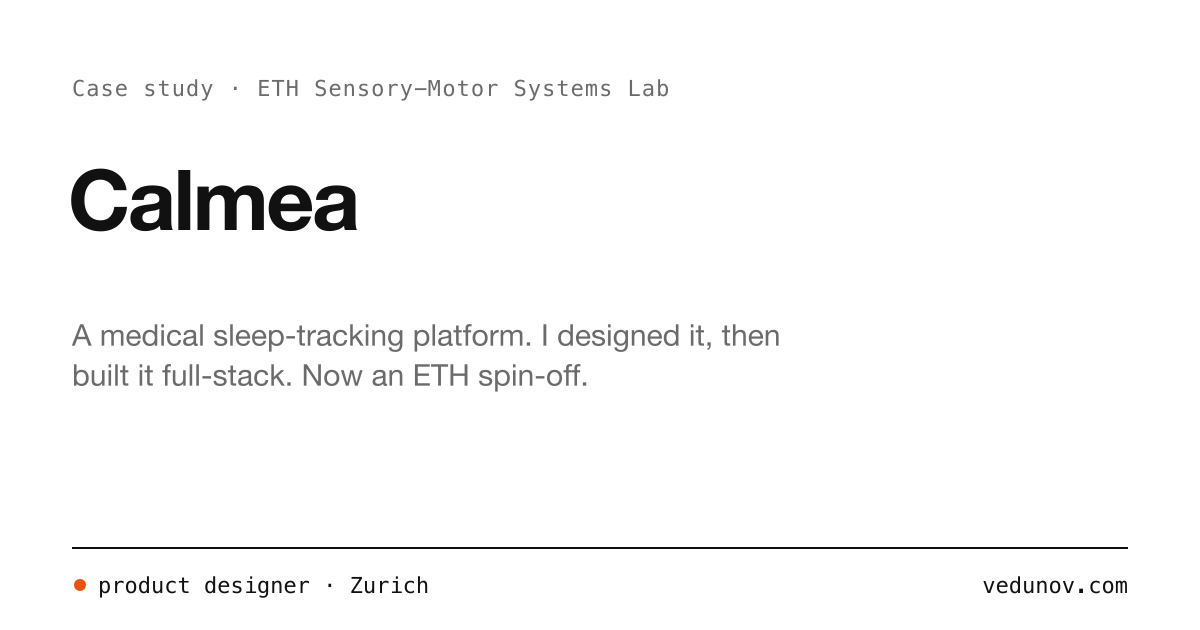
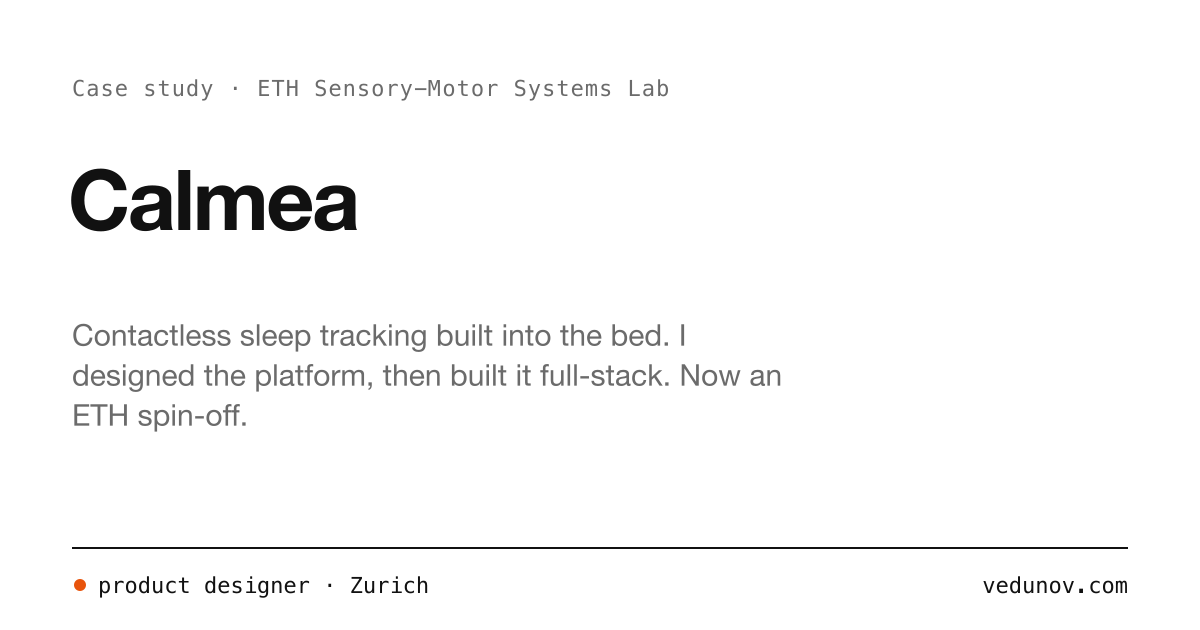
Landing: calmer cards and title, interaction designer; no quotes for launch
- Project cards on the landing are smaller (desktop ~68% wide at 16:10, phones 78% at 3:2),
  card text uses the space the quotes left.
- Hero: "interaction designer · Zurich", new title "I design health and enterprise
  software, from research to code." (de: «Ich gestalte Software für Gesundheit und Firmen,
  von der Forschung bis zum Code.»), "see the work" link removed.
- Kymu: Product Designer instead of Design Lead (case page, TL;DR, About).
- Collaborator quotes removed from all work entries until real ones exist.

Changed region(s): [[0.0617, 0.5127, 0.6475, 0.6937]]

diff --git a/app/components/home/ProjectCards.vue b/app/components/home/ProjectCards.vue
@@ -43,7 +43,7 @@ onMounted(update)
             :src="p.cover!.src"
             :alt="p.cover!.alt ?? ''"
             class="card__media"
-            sizes="sm:76vw md:90vw xl:1240px"
+            sizes="sm:70vw md:68vw xl:930px"
             densities="x1 x2"
             format="webp"
             :quality="p === projects[0] ? 65 : undefined"
@@ -105,7 +105,7 @@ onMounted(update)
 
 .card {
   position: relative;
-  flex: 0 0 86%;
+  flex: 0 0 78%;
   display: flex;
   flex-direction: column;
   scroll-snap-align: start;
@@ -120,14 +120,14 @@ onMounted(update)
 
 .card__link:focus-visible { outline-offset: -4px; border-radius: var(--radius-card); }
 
-.card__media { width: 100%; aspect-ratio: 4 / 3; object-fit: cover; }
+.card__media { width: 100%; aspect-ratio: 3 / 2; object-fit: cover; }
 
 .card__media--contain { object-fit: contain; padding: var(--space-6); background: var(--panel); }
 
 .card__confidential, .card__missing {
   display: grid;
   place-items: center;
-  aspect-ratio: 4 / 3;
+  aspect-ratio: 3 / 2;
   padding: var(--space-6);
   text-align: center;
 }
@@ -168,7 +168,7 @@ onMounted(update)
 
 @media (width >= 64rem) {
   /* Desktop: one big media card; text overlays bottom-left, the quote bottom-right. */
-  .card { flex-basis: calc(100% - 2 * var(--layout-margin) - 7.5rem); aspect-ratio: 3 / 2; display: block; }
+  .card { flex-basis: min(58rem, 68%); aspect-ratio: 16 / 10; display: block; }
 
   .card__link { position: absolute; inset: 0; display: block; }
 
@@ -178,9 +178,9 @@ onMounted(update)
 
   .card__confidential, .card__missing { position: absolute; inset: 0 0 35%; aspect-ratio: auto; }
 
-  .card__body { position: absolute; inset: auto 45% 0 0; z-index: 1; padding: var(--space-8); }
+  .card__body { position: absolute; inset: auto 30% 0 0; z-index: 1; padding: var(--space-8); }
 
-  .card--photo .card__body { padding-top: 30%; background: linear-gradient(to top, var(--scrim) 0%, var(--scrim) 50%, transparent 100%); inset-inline-end: 0; padding-inline-end: 45%; }
+  .card--photo .card__body { padding-top: 30%; background: linear-gradient(to top, var(--scrim) 0%, var(--scrim) 50%, transparent 100%); inset-inline-end: 0; padding-inline-end: 30%; }
 
   .card__quote {
     position: absolute;

diff --git a/app/i18n/ui.ts b/app/i18n/ui.ts
@@ -13,9 +13,8 @@ export const ui = {
     'footer.elsewhere': 'Elsewhere',
     'footer.email': 'Email',
 
-    'hero.role': 'product designer · Zurich',
+    'hero.role': 'interaction designer · Zurich',
     'hero.email': 'email me',
-    'hero.work': 'see the work',
     'cards.title': 'Selected work',
     'cards.prev': 'Previous project',
     'cards.next': 'Next project',
@@ -93,9 +92,8 @@ export const ui = {
     'footer.elsewhere': 'Anderswo',
     'footer.email': 'E-Mail',
 
-    'hero.role': 'Produktdesigner · Zürich',
+    'hero.role': 'Interaction Designer · Zürich',
     'hero.email': 'schreib mir',
-    'hero.work': 'zu den Arbeiten',
     'cards.title': 'Ausgewählte Arbeiten',
     'cards.prev': 'Vorheriges Projekt',
     'cards.next': 'Nächstes Projekt',

diff --git a/app/pages/index.vue b/app/pages/index.vue
@@ -20,7 +20,6 @@ useSeoMeta({ description: () => `${site.value.name}, ${t('site.tagline')}. ${sit
     <h1 id="hero-title" class="t-display hero__title">{{ site.positioning }}<span class="hero__cursor" aria-hidden="true" /></h1>
     <p class="hero__proof t-mono">
       <a href="#contact" class="hero__mail">{{ t('hero.email') }}<span aria-hidden="true">&nbsp;›</span></a>
-      <NuxtLink :to="lp('/work')" class="hero__mail link-quiet">{{ t('hero.work') }}<span aria-hidden="true">&nbsp;›</span></NuxtLink>
     </p>
   </section>
 

diff --git a/content/de/work/1.kymu.md b/content/de/work/1.kymu.md
@@ -2,7 +2,7 @@
 title: Kymu
 outcome: Physiotherapie zu Hause als Spiel für Kinder mit neuromuskulären Erkrankungen. Über CHF 160'000 an Fördergeldern, klinischer Pilot mit dem Luzerner Kantonsspital aufgegleist.
 year: 2025–heute
-role: Design Lead · Wissenschaftlicher Mitarbeiter
+role: Product Designer · Wissenschaftlicher Mitarbeiter
 org: Kymu
 tier: featured
 cover:
@@ -44,15 +44,11 @@ results:
       label: Bachelor Design Award 2025
 reflection: "[TODO: your words, 3–5 sentences. What would you change about how Kymu was designed or run, knowing what you know now?]"
 tags: [Gesundheit, Forschung, Produktdesign]
-quote:
-  text: "[TODO: quote from Elia]"
-  name: Elia Salerno
-  role: "[TODO: Elia's role at Kymu]"
 services: [UX/UI, Forschung, 3D, Marke]
 date: 2025–heute
 tldr:
   problem: Kinder mit neuromuskulären Erkrankungen brauchen jahrelang Physiotherapie zu Hause. Das ist schwer durchzuhalten, und Therapeutinnen und Therapeuten sehen nicht, was zwischen den Terminen passiert.
-  role: Design Lead. Research, UX/UI für die Therapeuten-Plattform, die App und den Fernseher, die Exergames in Blender und die Marke.
+  role: Product Designer. Research, UX/UI für die Therapeuten-Plattform, die App und den Fernseher, die Exergames in Blender und die Marke.
   did: "Heimübungen in bewegungsgesteuerte Spiele verwandelt, die Daten zu Bewegungsumfang und Gleichgewicht an die Therapeutin oder den Therapeuten schicken. Getestet mit Patientinnen und Patienten sowie Physiotherapeutinnen und Physiotherapeuten am Luzerner Kantonsspital."
   outcome: CHF 160k+ an nicht rückzahlbaren Fördergeldern, ein klinischer Pilot mit dem Luzerner Kantonsspital, eine Closed Beta und der SDA Bachelor Design Award 2025.
 keyVisuals:

diff --git a/content/work/1.kymu.md b/content/work/1.kymu.md
@@ -2,7 +2,7 @@
 title: Kymu
 outcome: Home physio as a game for children with neuromuscular conditions. CHF 160k+ raised, clinical pilot set up with Lucerne Cantonal Hospital.
 year: 2025–now
-role: Design Lead · Research Associate
+role: Product Designer · Research Associate
 org: Kymu
 tier: featured
 cover:
@@ -44,15 +44,11 @@ results:
       label: Bachelor Design Award 2025
 reflection: "[TODO: your words, 3–5 sentences. What would you change about how Kymu was designed or run, knowing what you know now?]"
 tags: [health, research, product design]
-quote:
-  text: "[TODO: quote from Elia]"
-  name: Elia Salerno
-  role: "[TODO: Elia's role at Kymu]"
 services: [UX/UI, research, 3D, brand]
 date: 2025–now
 tldr:
   problem: Children with neuromuscular conditions need years of physio at home. It's hard to keep up, and therapists can't see what happens between visits.
-  role: Design lead. Research, UX/UI for the therapist platform, the app and the TV, the exergames in Blender, and the brand.
+  role: Product designer. Research, UX/UI for the therapist platform, the app and the TV, the exergames in Blender, and the brand.
   did: "Turned home exercises into motion-controlled games that send range-of-motion and balance data to the therapist. Tested with patients and physiotherapists at Lucerne Cantonal Hospital."
   outcome: CHF 160k+ non-dilutive funding, a clinical pilot with Lucerne Cantonal Hospital, a closed beta, and the SDA Bachelor Design Award 2025.
 keyVisuals:

diff --git a/docs/PLACEHOLDERS.md b/docs/PLACEHOLDERS.md
@@ -8,7 +8,7 @@ In Markdown bodies, a placeholder is written `:todo[what's missing]`.
 
 ## Home: `content/home.yml`, `content/work/*.md` (quote)
 - [ ] Check the slogan (`content/site.yml`), the about teaser and the five "How I work" texts. They're my drafts: general opinions, no project facts.
-- [ ] Collaborator quotes on the three featured cards: Kymu (Elia, and Elia's role), Calmea (someone at the lab), Alpha Factory (someone at OWT)
+- [ ] Collaborator quotes: removed for launch. To bring them back, add a `quote:` block (text, name, role) to a work file; the card and the case page show it automatically.
 
 ## Case studies: `content/work/`
 Each has a "What I'd do differently" line waiting for your words.

diff --git a/content/de/work/3.alpha-factory.md b/content/de/work/3.alpha-factory.md
@@ -30,10 +30,6 @@ reflection: "[TODO: your words. What would you change about the brand now?]"
 tags: [Marke, KI, Web]
 services: [Markenidentität, Brand Guidelines, Web]
 date: "2026"
-quote:
-  text: "[TODO: quote from someone at OWT you worked with on Alpha Factory]"
-  name: "[TODO: name]"
-  role: "[TODO: role, OWT]"
 tldr:
   problem: Das KI-Angebot von OWT brauchte eine eigene Identität, klar als Teil von OWT erkennbar, aber eindeutig eigenständig.
   role: UX/UI Designer bei OWT. Ich habe die Marke entwickelt.

diff --git a/content/de/work/2.calmea.md b/content/de/work/2.calmea.md
@@ -36,10 +36,6 @@ results:
       label: Heute ein ETH Spin-off
 reflection: "[TODO: your words. Designing and building the same product is rare: what did building it teach you about your designs?]"
 tags: [Gesundheit, Datenvisualisierung, Full-Stack]
-quote:
-  text: "[TODO: quote from someone at the Sensory-Motor Systems Lab]"
-  name: "[TODO: name]"
-  role: "[TODO: role, ETH]"
 services: [UX/UI, Design System, Datenvisualisierung, Full-Stack]
 date: Sep. 2025 – Feb. 2026
 tldr:

diff --git a/content/work/3.alpha-factory.md b/content/work/3.alpha-factory.md
@@ -30,10 +30,6 @@ reflection: "[TODO: your words. What would you change about the brand now?]"
 tags: [brand, AI, web]
 services: [brand identity, guidelines, web]
 date: "2026"
-quote:
-  text: "[TODO: quote from someone at OWT you worked with on Alpha Factory]"
-  name: "[TODO: name]"
-  role: "[TODO: role, OWT]"
 tldr:
   problem: OWT's AI offering needed its own identity, recognisably part of OWT but clearly its own thing.
   role: UX/UI designer at OWT. I created the brand.

diff --git a/content/work/2.calmea.md b/content/work/2.calmea.md
@@ -36,10 +36,6 @@ results:
       label: Now an ETH spin-off
 reflection: "[TODO: your words. Designing and building the same product is rare: what did building it teach you about your designs?]"
 tags: [health, data visualisation, full-stack]
-quote:
-  text: "[TODO: quote from someone at the Sensory-Motor Systems Lab]"
-  name: "[TODO: name]"
-  role: "[TODO: role, ETH]"
 services: [UX/UI, design system, data visualisation, full-stack]
 date: Sep 2025 – Feb 2026
 tldr:

diff --git a/content/work/archive/0.medtech-usability.md b/content/work/archive/0.medtech-usability.md
@@ -32,10 +32,6 @@ results:
       label: Certified in 2026
 reflection: "[TODO: your words. What would you do differently in the next summative test?]"
 tags: [medical software, usability testing]
-quote:
-  text: "[TODO: anonymised quote, e.g. from the client team]"
-  name: "[TODO: role only, no name]"
-  role: ""
 services: [usability testing, research, UX/UI]
 date: "2026"
 tldr:

diff --git a/content/de/work/archive/0.medtech-usability.md b/content/de/work/archive/0.medtech-usability.md
@@ -32,10 +32,6 @@ results:
       label: Zertifiziert 2026
 reflection: "[TODO: your words. What would you do differently in the next summative test?]"
 tags: [Medizinsoftware, Usability-Tests]
-quote:
-  text: "[TODO: anonymised quote, e.g. from the client team]"
-  name: "[TODO: role only, no name]"
-  role: ""
 services: [Usability-Tests, Forschung, UX/UI]
 date: "2026"
 tldr:
